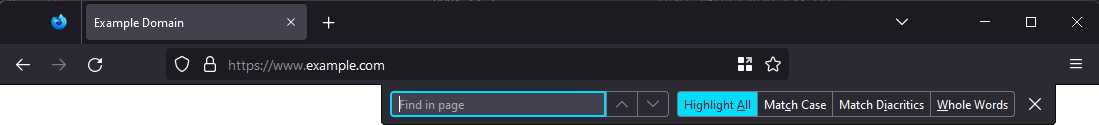
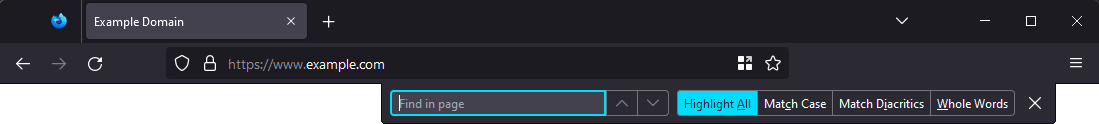
Remove supported Firefox versions from README and other minor docs refinements
- I will add the version to the repo description instead. This way I can update it without having to
  commit to the repo.

- Move userChrome.css description from CONTRIBUTING.md to a footnote in README.md.
- Crop feature images.

diff --git a/README.md b/README.md
@@ -1,9 +1,12 @@
 # Refined Find bar for Firefox
 
-`userChrome.css` styles that refine the Firefox find bar by repositioning it, adjusting spacing,
-re-styling internal elements.
+`userChrome.css`[^userchrome] styles that refine the Firefox find bar by repositioning it, adjusting
+spacing, re-styling internal elements.
 
-> **Note** Tested on Firefox 100-108.
+[^userchrome]:
+    Learn more about `userChrome.css` at: https://kb.mozillazine.org/UserChrome.css,
+    https://old.reddit.com/r/firefox/wiki/userchrome,
+    https://old.reddit.com/r/FirefoxCSS/wiki/index/tutorials
 
 <br>
 
@@ -84,9 +87,9 @@ This style is written in [SCSS](https://sass-lang.com/) and therefore must be tr
 before being added to `userChrome.css`. There are several ways to go about this,
 
 - **To use an online tool like [SassMeister](https://www.sassmeister.com/)**, copy the contents of
-  [`refined-findbar.scss`](./src/refined-findbar.scss) to its SCSS pane, and override variables as
-  necessary. The CSS transpilation will appear on the right-hand side; paste it in your
-  `userChrome.css` file.
+  [`refined-findbar.scss`](./src/refined-findbar.scss) to its SCSS pane on the left-hand side, and
+  override variables as necessary. The CSS transpilation will appear on the right-hand side; paste
+  it in your `userChrome.css` file.
 
   ![](./img/sassmeister.png)
 

diff --git a/CONTRIBUTING.md b/CONTRIBUTING.md
@@ -1,13 +1,5 @@
 # Contributing
 
-Learn more about `userChrome.css` at,
-
-- https://kb.mozillazine.org/UserChrome.css
-- https://old.reddit.com/r/firefox/wiki/userchrome
-- https://old.reddit.com/r/FirefoxCSS/wiki/index/tutorials
-
-<br>
-
 ## Tools
 
 - [Yarn](https://yarnpkg.com/) package manager.
@@ -16,7 +8,7 @@ Learn more about `userChrome.css` at,
   [workspace configuration](./.vscode/) that configures VSCode to invoke
   [Prettier](https://prettier.io/) to upon save.
 
-  If you choose to use a different text-editor, please ensure that it is
+  If you choose to use a different text editor, please ensure that it is
   [EditorConfig](https://editorconfig.org/)-compliant, and run the `pretty:*` tasks before
   committing your changes.
 
